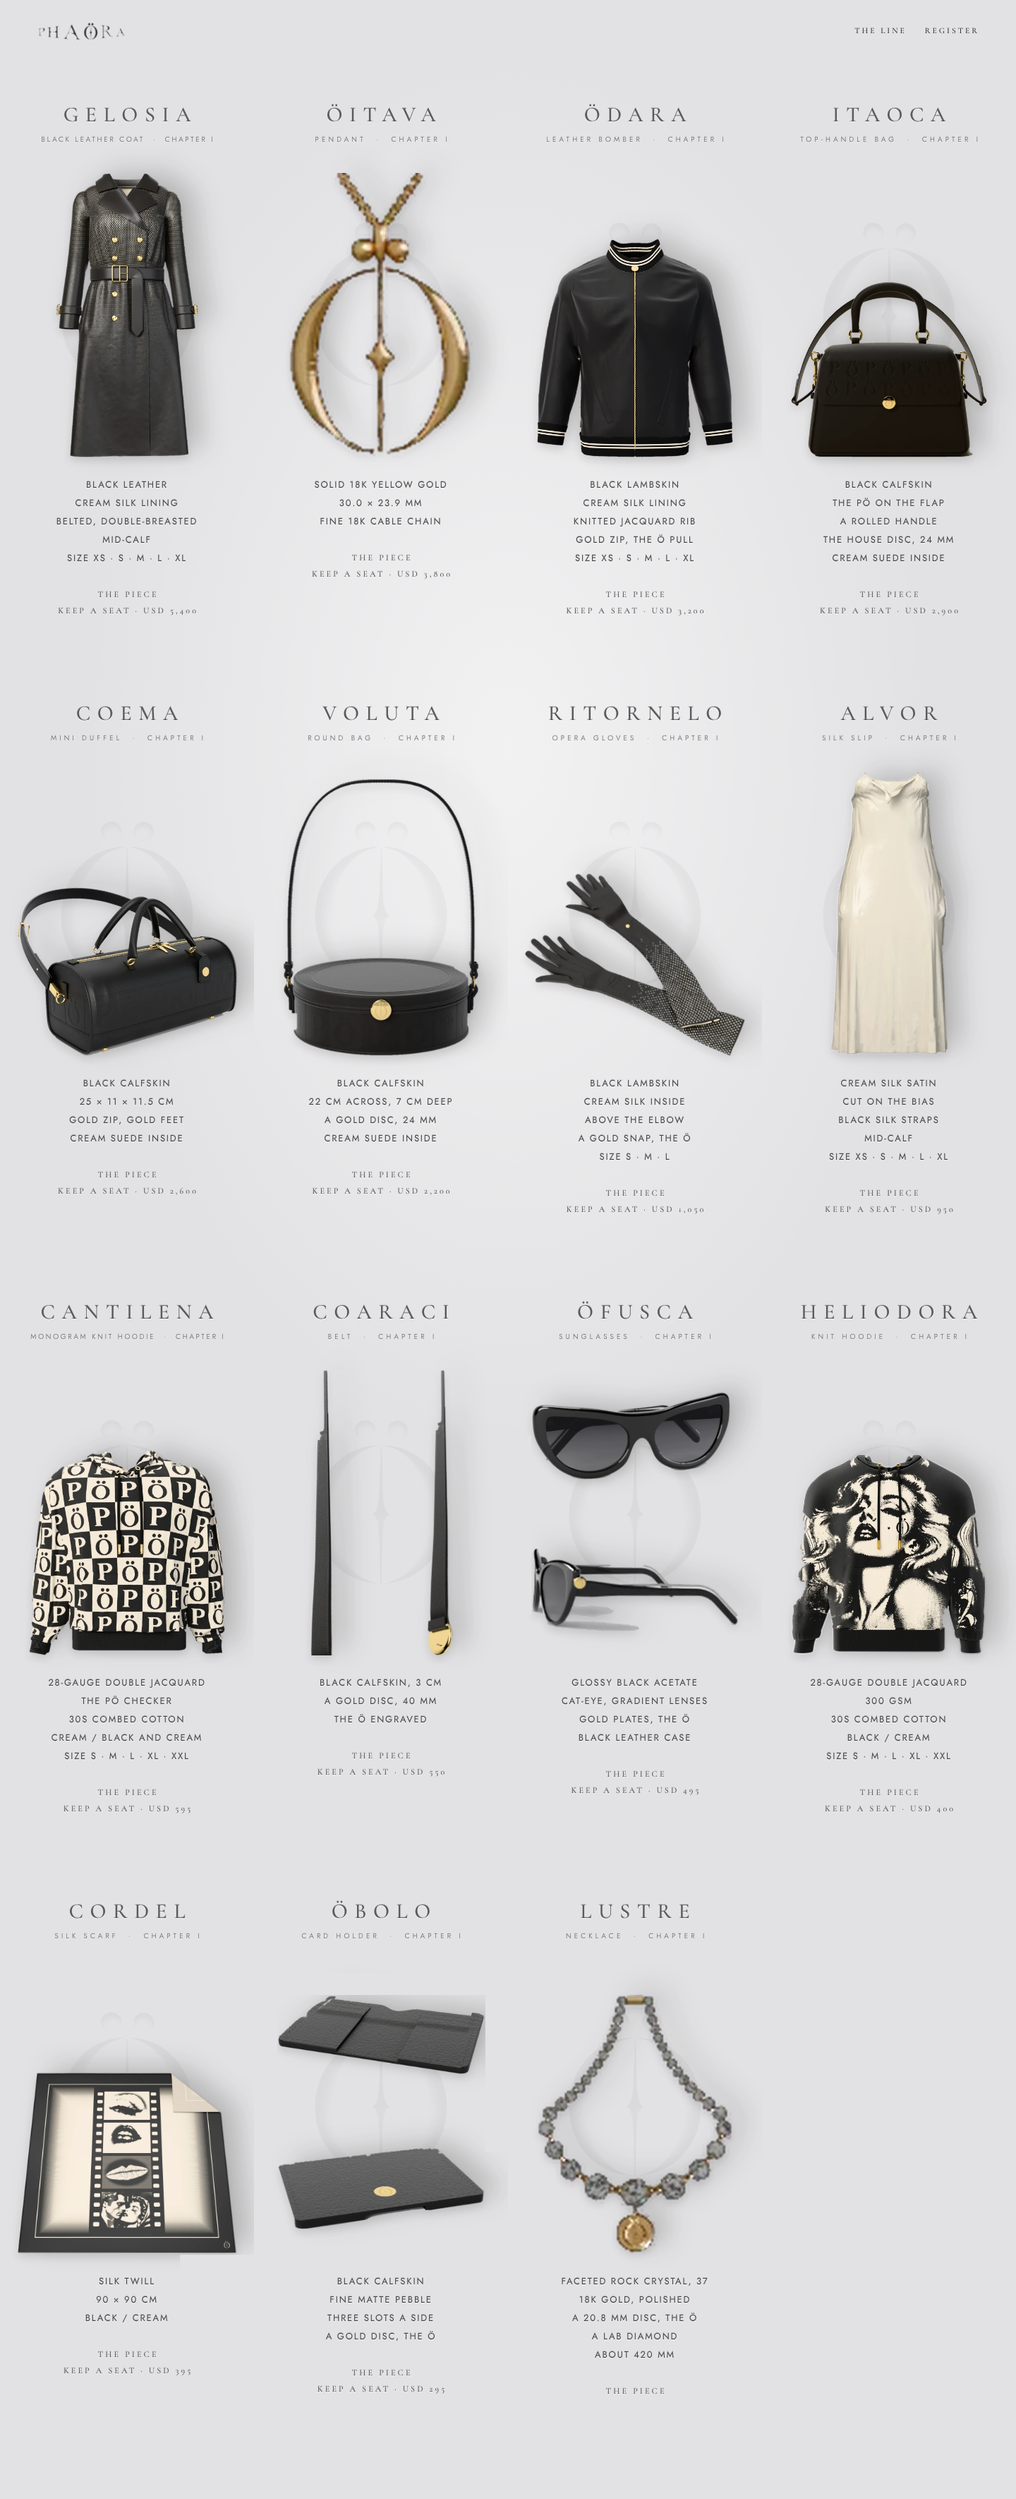
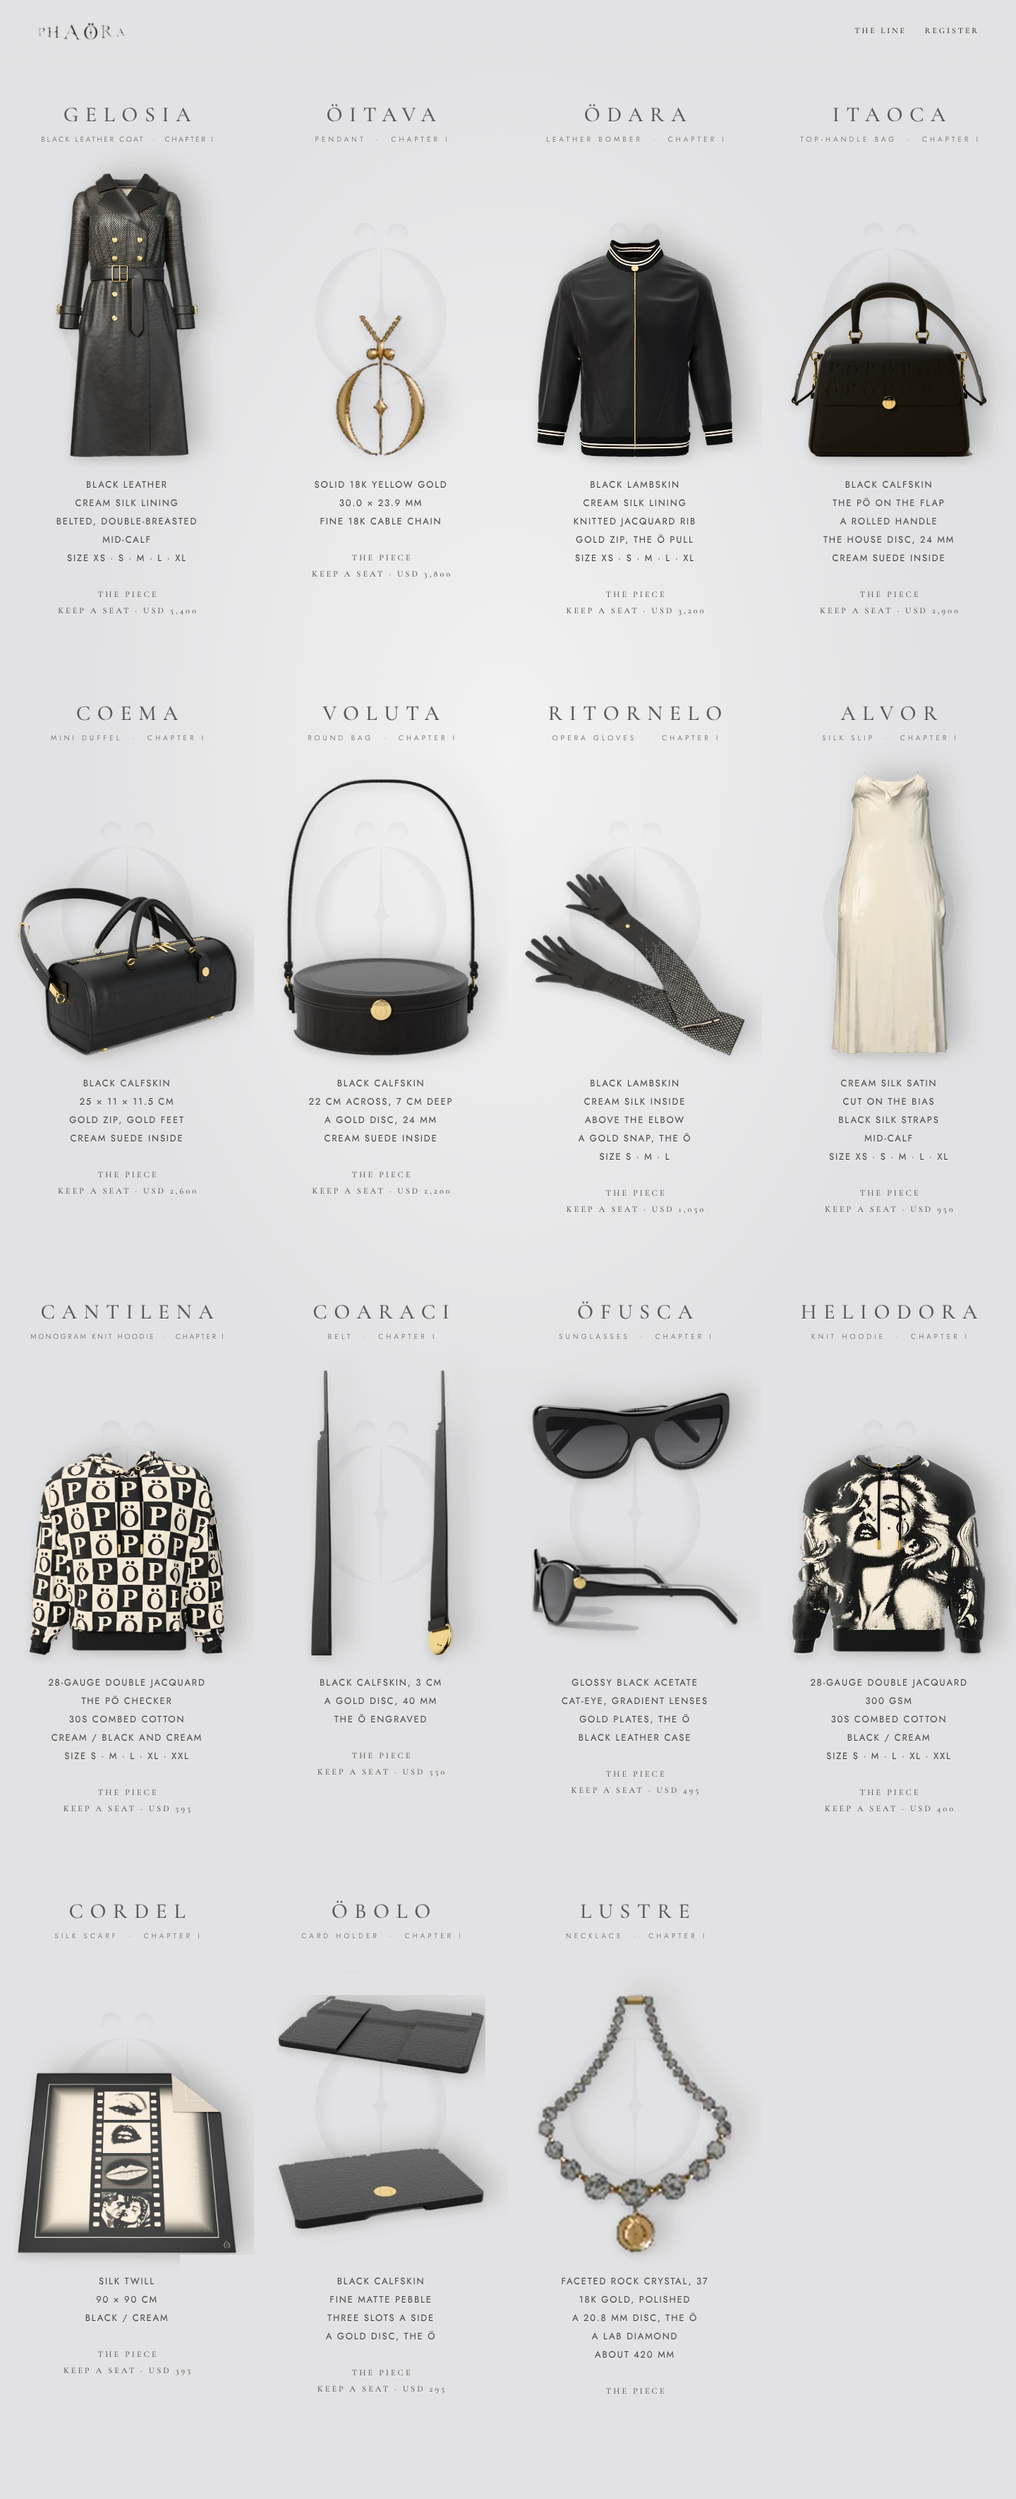
Catalogue: Öitava smaller, more delicate (half its box)
Claude-Session: https://claude.ai/code/session_0133zY8WYR2Yz4VqDzteq4sV

Changed region(s): [[0.2812, 0.0621, 0.4688, 0.1864]]

diff --git a/chapter-1/index.html b/chapter-1/index.html
@@ -13,7 +13,7 @@
 <div class="top"></div>
 <a id="logo" href="#top" aria-label="PHAÖRA"></a>
 <nav id="sitenav"><a href="#top">The line</a><a href="/">Register</a></nav>
-<main class="cat"><article class="col" id="gelosia"><h2 class="t cut">GELOSIA</h2><p class="s cut long">BLACK LEATHER COAT &nbsp;·&nbsp; CHAPTER I</p><a class="ph" href="gelosia.html"><img src="assets/catalogue/veil_coat.webp" alt="Gelosia, black leather coat" loading="eager" decoding="async"></a><ul class="specs cut"><li>BLACK LEATHER</li><li>CREAM SILK LINING</li><li>BELTED, DOUBLE-BREASTED</li><li>MID-CALF</li><li>SIZE  XS · S · M · L · XL</li></ul><p class="links cut"><a href="gelosia.html">The piece</a><a href="/">Keep a seat · USD 5,400</a></p></article><article class="col" id="oitava"><h2 class="t cut">ÖITAVA</h2><p class="s cut">PENDANT &nbsp;·&nbsp; CHAPTER I</p><a class="ph" href="oitava.html"><img src="assets/catalogue/oitava.webp" alt="Öitava, pendant" loading="eager" decoding="async"></a><ul class="specs cut"><li>SOLID 18K YELLOW GOLD</li><li>30.0 × 23.9 MM</li><li>FINE 18K CABLE CHAIN</li></ul><p class="links cut"><a href="oitava.html">The piece</a><a href="/">Keep a seat · USD 3,800</a></p></article><article class="col" id="odara"><h2 class="t cut">ÖDARA</h2><p class="s cut">LEATHER BOMBER &nbsp;·&nbsp; CHAPTER I</p><a class="ph" href="odara.html"><img src="assets/catalogue/muse_bomber.webp" alt="Ödara, leather bomber" loading="eager" decoding="async"></a><ul class="specs cut"><li>BLACK LAMBSKIN</li><li>CREAM SILK LINING</li><li>KNITTED JACQUARD RIB</li><li>GOLD ZIP, THE Ö PULL</li><li>SIZE  XS · S · M · L · XL</li></ul><p class="links cut"><a href="odara.html">The piece</a><a href="/">Keep a seat · USD 3,200</a></p></article><article class="col" id="itaoca"><h2 class="t cut">ITAOCA</h2><p class="s cut">TOP-HANDLE BAG &nbsp;·&nbsp; CHAPTER I</p><a class="ph" href="itaoca.html"><img src="assets/catalogue/po_tophandle.webp" alt="Itaoca, top-handle bag" loading="eager" decoding="async"></a><ul class="specs cut"><li>BLACK CALFSKIN</li><li>THE PÖ ON THE FLAP</li><li>A ROLLED HANDLE</li><li>THE HOUSE DISC, 24 MM</li><li>CREAM SUEDE INSIDE</li></ul><p class="links cut"><a href="itaoca.html">The piece</a><a href="/">Keep a seat · USD 2,900</a></p></article><article class="col" id="coema"><h2 class="t cut">COEMA</h2><p class="s cut">MINI DUFFEL &nbsp;·&nbsp; CHAPTER I</p><a class="ph wide" href="coema.html"><img src="assets/catalogue/matinee.webp" alt="Coema, mini duffel" loading="eager" decoding="async"></a><ul class="specs cut"><li>BLACK CALFSKIN</li><li>25 × 11 × 11.5 CM</li><li>GOLD ZIP, GOLD FEET</li><li>CREAM SUEDE INSIDE</li></ul><p class="links cut"><a href="coema.html">The piece</a><a href="/">Keep a seat · USD 2,600</a></p></article><article class="col" id="voluta"><h2 class="t cut">VOLUTA</h2><p class="s cut">ROUND BAG &nbsp;·&nbsp; CHAPTER I</p><a class="ph" href="voluta.html"><img src="assets/catalogue/the_reel.webp" alt="Voluta, round bag" loading="eager" decoding="async"></a><ul class="specs cut"><li>BLACK CALFSKIN</li><li>22 CM ACROSS, 7 CM DEEP</li><li>A GOLD DISC, 24 MM</li><li>CREAM SUEDE INSIDE</li></ul><p class="links cut"><a href="voluta.html">The piece</a><a href="/">Keep a seat · USD 2,200</a></p></article><article class="col" id="ritornelo"><h2 class="t cut">RITORNELO</h2><p class="s cut">OPERA GLOVES &nbsp;·&nbsp; CHAPTER I</p><a class="ph wide" href="ritornelo.html"><img src="assets/catalogue/opera_gloves.webp" alt="Ritornelo, opera gloves" loading="eager" decoding="async"></a><ul class="specs cut"><li>BLACK LAMBSKIN</li><li>CREAM SILK INSIDE</li><li>ABOVE THE ELBOW</li><li>A GOLD SNAP, THE Ö</li><li>SIZE  S · M · L</li></ul><p class="links cut"><a href="ritornelo.html">The piece</a><a href="/">Keep a seat · USD 1,050</a></p></article><article class="col" id="alvor"><h2 class="t cut">ALVOR</h2><p class="s cut">SILK SLIP &nbsp;·&nbsp; CHAPTER I</p><a class="ph" href="alvor.html"><img src="assets/catalogue/silk_slip.webp" alt="Alvor, silk slip" loading="eager" decoding="async"></a><ul class="specs cut"><li>CREAM SILK SATIN</li><li>CUT ON THE BIAS</li><li>BLACK SILK STRAPS</li><li>MID-CALF</li><li>SIZE  XS · S · M · L · XL</li></ul><p class="links cut"><a href="alvor.html">The piece</a><a href="/">Keep a seat · USD 950</a></p></article><article class="col" id="cantilena"><h2 class="t cut">CANTILENA</h2><p class="s cut long">MONOGRAM KNIT HOODIE &nbsp;·&nbsp; CHAPTER I</p><a class="ph" href="cantilena.html"><img src="assets/catalogue/cantilena.webp" alt="Cantilena, monogram knit hoodie" loading="eager" decoding="async"></a><ul class="specs cut"><li>28-GAUGE DOUBLE JACQUARD</li><li>THE PÖ CHECKER</li><li>30S COMBED COTTON</li><li>CREAM / BLACK AND CREAM</li><li>SIZE  S · M · L · XL · XXL</li></ul><p class="links cut"><a href="cantilena.html">The piece</a><a href="/">Keep a seat · USD 595</a></p></article><article class="col" id="coaraci"><h2 class="t cut">COARACI</h2><p class="s cut">BELT &nbsp;·&nbsp; CHAPTER I</p><a class="ph duo" href="coaraci.html"><img class="a" src="assets/catalogue/disc_belt_long-leather.webp" alt="Coaraci, belt: the leather" loading="eager" decoding="async"><img class="b" src="assets/catalogue/disc_belt_long-buckle.webp" alt="Coaraci: its buckle" loading="eager" decoding="async"></a><ul class="specs cut"><li>BLACK CALFSKIN, 3 CM</li><li>A GOLD DISC, 40 MM</li><li>THE Ö ENGRAVED</li></ul><p class="links cut"><a href="coaraci.html">The piece</a><a href="/">Keep a seat · USD 550</a></p></article><article class="col" id="ofusca"><h2 class="t cut">ÖFUSCA</h2><p class="s cut">SUNGLASSES &nbsp;·&nbsp; CHAPTER I</p><a class="ph two" href="ofusca.html"><img class="a" src="assets/catalogue/sunglasses.webp" alt="Öfusca, sunglasses" loading="eager" decoding="async"><img class="b" src="assets/catalogue/sunglasses_side.webp" alt="" loading="eager" decoding="async"></a><ul class="specs cut"><li>GLOSSY BLACK ACETATE</li><li>CAT-EYE, GRADIENT LENSES</li><li>GOLD PLATES, THE Ö</li><li>BLACK LEATHER CASE</li></ul><p class="links cut"><a href="ofusca.html">The piece</a><a href="/">Keep a seat · USD 495</a></p></article><article class="col" id="heliodora"><h2 class="t cut">HELIODORA</h2><p class="s cut">KNIT HOODIE &nbsp;·&nbsp; CHAPTER I</p><a class="ph" href="heliodora.html"><img src="assets/catalogue/muse_allover.webp" alt="Heliodora, knit hoodie" loading="eager" decoding="async"></a><ul class="specs cut"><li>28-GAUGE DOUBLE JACQUARD</li><li>300 GSM</li><li>30S COMBED COTTON</li><li>BLACK / CREAM</li><li>SIZE  S · M · L · XL · XXL</li></ul><p class="links cut"><a href="heliodora.html">The piece</a><a href="/">Keep a seat · USD 400</a></p></article><article class="col" id="cordel"><h2 class="t cut">CORDEL</h2><p class="s cut">SILK SCARF &nbsp;·&nbsp; CHAPTER I</p><a class="ph wide" href="cordel.html"><img src="assets/catalogue/silk_scarf.webp" alt="Cordel, silk scarf" loading="eager" decoding="async"></a><ul class="specs cut"><li>SILK TWILL</li><li>90 × 90 CM</li><li>BLACK / CREAM</li></ul><p class="links cut"><a href="cordel.html">The piece</a><a href="/">Keep a seat · USD 395</a></p></article><article class="col" id="obolo"><h2 class="t cut">ÖBOLO</h2><p class="s cut">CARD HOLDER &nbsp;·&nbsp; CHAPTER I</p><a class="ph two" href="obolo.html"><img class="a" src="assets/catalogue/card_holder.webp" alt="Öbolo, card holder" loading="eager" decoding="async"><img class="b" src="assets/catalogue/card_holder_back.webp" alt="" loading="eager" decoding="async"></a><ul class="specs cut"><li>BLACK CALFSKIN</li><li>FINE MATTE PEBBLE</li><li>THREE SLOTS A SIDE</li><li>A GOLD DISC, THE Ö</li></ul><p class="links cut"><a href="obolo.html">The piece</a><a href="/">Keep a seat · USD 295</a></p></article><article class="col" id="lustre"><h2 class="t cut">LUSTRE</h2><p class="s cut">NECKLACE &nbsp;·&nbsp; CHAPTER I</p><a class="ph" href="lustre.html"><img src="assets/catalogue/lustre.webp" alt="Lustre, necklace" loading="eager" decoding="async"></a><ul class="specs cut"><li>FACETED ROCK CRYSTAL, 37</li><li>18K GOLD, POLISHED</li><li>A 20.8 MM DISC, THE Ö</li><li>A LAB DIAMOND</li><li>ABOUT 420 MM</li></ul><p class="links cut"><a href="lustre.html">The piece</a></p></article></main>
+<main class="cat"><article class="col" id="gelosia"><h2 class="t cut">GELOSIA</h2><p class="s cut long">BLACK LEATHER COAT &nbsp;·&nbsp; CHAPTER I</p><a class="ph" href="gelosia.html"><img src="assets/catalogue/veil_coat.webp" alt="Gelosia, black leather coat" loading="eager" decoding="async"></a><ul class="specs cut"><li>BLACK LEATHER</li><li>CREAM SILK LINING</li><li>BELTED, DOUBLE-BREASTED</li><li>MID-CALF</li><li>SIZE  XS · S · M · L · XL</li></ul><p class="links cut"><a href="gelosia.html">The piece</a><a href="/">Keep a seat · USD 5,400</a></p></article><article class="col" id="oitava"><h2 class="t cut">ÖITAVA</h2><p class="s cut">PENDANT &nbsp;·&nbsp; CHAPTER I</p><a class="ph" href="oitava.html"><img style="height:50%" src="assets/catalogue/oitava.webp" alt="Öitava, pendant" loading="eager" decoding="async"></a><ul class="specs cut"><li>SOLID 18K YELLOW GOLD</li><li>30.0 × 23.9 MM</li><li>FINE 18K CABLE CHAIN</li></ul><p class="links cut"><a href="oitava.html">The piece</a><a href="/">Keep a seat · USD 3,800</a></p></article><article class="col" id="odara"><h2 class="t cut">ÖDARA</h2><p class="s cut">LEATHER BOMBER &nbsp;·&nbsp; CHAPTER I</p><a class="ph" href="odara.html"><img src="assets/catalogue/muse_bomber.webp" alt="Ödara, leather bomber" loading="eager" decoding="async"></a><ul class="specs cut"><li>BLACK LAMBSKIN</li><li>CREAM SILK LINING</li><li>KNITTED JACQUARD RIB</li><li>GOLD ZIP, THE Ö PULL</li><li>SIZE  XS · S · M · L · XL</li></ul><p class="links cut"><a href="odara.html">The piece</a><a href="/">Keep a seat · USD 3,200</a></p></article><article class="col" id="itaoca"><h2 class="t cut">ITAOCA</h2><p class="s cut">TOP-HANDLE BAG &nbsp;·&nbsp; CHAPTER I</p><a class="ph" href="itaoca.html"><img src="assets/catalogue/po_tophandle.webp" alt="Itaoca, top-handle bag" loading="eager" decoding="async"></a><ul class="specs cut"><li>BLACK CALFSKIN</li><li>THE PÖ ON THE FLAP</li><li>A ROLLED HANDLE</li><li>THE HOUSE DISC, 24 MM</li><li>CREAM SUEDE INSIDE</li></ul><p class="links cut"><a href="itaoca.html">The piece</a><a href="/">Keep a seat · USD 2,900</a></p></article><article class="col" id="coema"><h2 class="t cut">COEMA</h2><p class="s cut">MINI DUFFEL &nbsp;·&nbsp; CHAPTER I</p><a class="ph wide" href="coema.html"><img src="assets/catalogue/matinee.webp" alt="Coema, mini duffel" loading="eager" decoding="async"></a><ul class="specs cut"><li>BLACK CALFSKIN</li><li>25 × 11 × 11.5 CM</li><li>GOLD ZIP, GOLD FEET</li><li>CREAM SUEDE INSIDE</li></ul><p class="links cut"><a href="coema.html">The piece</a><a href="/">Keep a seat · USD 2,600</a></p></article><article class="col" id="voluta"><h2 class="t cut">VOLUTA</h2><p class="s cut">ROUND BAG &nbsp;·&nbsp; CHAPTER I</p><a class="ph" href="voluta.html"><img src="assets/catalogue/the_reel.webp" alt="Voluta, round bag" loading="eager" decoding="async"></a><ul class="specs cut"><li>BLACK CALFSKIN</li><li>22 CM ACROSS, 7 CM DEEP</li><li>A GOLD DISC, 24 MM</li><li>CREAM SUEDE INSIDE</li></ul><p class="links cut"><a href="voluta.html">The piece</a><a href="/">Keep a seat · USD 2,200</a></p></article><article class="col" id="ritornelo"><h2 class="t cut">RITORNELO</h2><p class="s cut">OPERA GLOVES &nbsp;·&nbsp; CHAPTER I</p><a class="ph wide" href="ritornelo.html"><img src="assets/catalogue/opera_gloves.webp" alt="Ritornelo, opera gloves" loading="eager" decoding="async"></a><ul class="specs cut"><li>BLACK LAMBSKIN</li><li>CREAM SILK INSIDE</li><li>ABOVE THE ELBOW</li><li>A GOLD SNAP, THE Ö</li><li>SIZE  S · M · L</li></ul><p class="links cut"><a href="ritornelo.html">The piece</a><a href="/">Keep a seat · USD 1,050</a></p></article><article class="col" id="alvor"><h2 class="t cut">ALVOR</h2><p class="s cut">SILK SLIP &nbsp;·&nbsp; CHAPTER I</p><a class="ph" href="alvor.html"><img src="assets/catalogue/silk_slip.webp" alt="Alvor, silk slip" loading="eager" decoding="async"></a><ul class="specs cut"><li>CREAM SILK SATIN</li><li>CUT ON THE BIAS</li><li>BLACK SILK STRAPS</li><li>MID-CALF</li><li>SIZE  XS · S · M · L · XL</li></ul><p class="links cut"><a href="alvor.html">The piece</a><a href="/">Keep a seat · USD 950</a></p></article><article class="col" id="cantilena"><h2 class="t cut">CANTILENA</h2><p class="s cut long">MONOGRAM KNIT HOODIE &nbsp;·&nbsp; CHAPTER I</p><a class="ph" href="cantilena.html"><img src="assets/catalogue/cantilena.webp" alt="Cantilena, monogram knit hoodie" loading="eager" decoding="async"></a><ul class="specs cut"><li>28-GAUGE DOUBLE JACQUARD</li><li>THE PÖ CHECKER</li><li>30S COMBED COTTON</li><li>CREAM / BLACK AND CREAM</li><li>SIZE  S · M · L · XL · XXL</li></ul><p class="links cut"><a href="cantilena.html">The piece</a><a href="/">Keep a seat · USD 595</a></p></article><article class="col" id="coaraci"><h2 class="t cut">COARACI</h2><p class="s cut">BELT &nbsp;·&nbsp; CHAPTER I</p><a class="ph duo" href="coaraci.html"><img class="a" src="assets/catalogue/disc_belt_long-leather.webp" alt="Coaraci, belt: the leather" loading="eager" decoding="async"><img class="b" src="assets/catalogue/disc_belt_long-buckle.webp" alt="Coaraci: its buckle" loading="eager" decoding="async"></a><ul class="specs cut"><li>BLACK CALFSKIN, 3 CM</li><li>A GOLD DISC, 40 MM</li><li>THE Ö ENGRAVED</li></ul><p class="links cut"><a href="coaraci.html">The piece</a><a href="/">Keep a seat · USD 550</a></p></article><article class="col" id="ofusca"><h2 class="t cut">ÖFUSCA</h2><p class="s cut">SUNGLASSES &nbsp;·&nbsp; CHAPTER I</p><a class="ph two" href="ofusca.html"><img class="a" src="assets/catalogue/sunglasses.webp" alt="Öfusca, sunglasses" loading="eager" decoding="async"><img class="b" src="assets/catalogue/sunglasses_side.webp" alt="" loading="eager" decoding="async"></a><ul class="specs cut"><li>GLOSSY BLACK ACETATE</li><li>CAT-EYE, GRADIENT LENSES</li><li>GOLD PLATES, THE Ö</li><li>BLACK LEATHER CASE</li></ul><p class="links cut"><a href="ofusca.html">The piece</a><a href="/">Keep a seat · USD 495</a></p></article><article class="col" id="heliodora"><h2 class="t cut">HELIODORA</h2><p class="s cut">KNIT HOODIE &nbsp;·&nbsp; CHAPTER I</p><a class="ph" href="heliodora.html"><img src="assets/catalogue/muse_allover.webp" alt="Heliodora, knit hoodie" loading="eager" decoding="async"></a><ul class="specs cut"><li>28-GAUGE DOUBLE JACQUARD</li><li>300 GSM</li><li>30S COMBED COTTON</li><li>BLACK / CREAM</li><li>SIZE  S · M · L · XL · XXL</li></ul><p class="links cut"><a href="heliodora.html">The piece</a><a href="/">Keep a seat · USD 400</a></p></article><article class="col" id="cordel"><h2 class="t cut">CORDEL</h2><p class="s cut">SILK SCARF &nbsp;·&nbsp; CHAPTER I</p><a class="ph wide" href="cordel.html"><img src="assets/catalogue/silk_scarf.webp" alt="Cordel, silk scarf" loading="eager" decoding="async"></a><ul class="specs cut"><li>SILK TWILL</li><li>90 × 90 CM</li><li>BLACK / CREAM</li></ul><p class="links cut"><a href="cordel.html">The piece</a><a href="/">Keep a seat · USD 395</a></p></article><article class="col" id="obolo"><h2 class="t cut">ÖBOLO</h2><p class="s cut">CARD HOLDER &nbsp;·&nbsp; CHAPTER I</p><a class="ph two" href="obolo.html"><img class="a" src="assets/catalogue/card_holder.webp" alt="Öbolo, card holder" loading="eager" decoding="async"><img class="b" src="assets/catalogue/card_holder_back.webp" alt="" loading="eager" decoding="async"></a><ul class="specs cut"><li>BLACK CALFSKIN</li><li>FINE MATTE PEBBLE</li><li>THREE SLOTS A SIDE</li><li>A GOLD DISC, THE Ö</li></ul><p class="links cut"><a href="obolo.html">The piece</a><a href="/">Keep a seat · USD 295</a></p></article><article class="col" id="lustre"><h2 class="t cut">LUSTRE</h2><p class="s cut">NECKLACE &nbsp;·&nbsp; CHAPTER I</p><a class="ph" href="lustre.html"><img src="assets/catalogue/lustre.webp" alt="Lustre, necklace" loading="eager" decoding="async"></a><ul class="specs cut"><li>FACETED ROCK CRYSTAL, 37</li><li>18K GOLD, POLISHED</li><li>A 20.8 MM DISC, THE Ö</li><li>A LAB DIAMOND</li><li>ABOUT 420 MM</li></ul><p class="links cut"><a href="lustre.html">The piece</a></p></article></main>
 <script>
 // David's lettering with the solo Ö, inlined in the room's dark ink, as room.js does (never typed)
 fetch('assets/lettering-solo-offwhite.svg').then(r => r.text()).then(t => { document.getElementById('logo').innerHTML =

diff --git a/chapter-1/build.py b/chapter-1/build.py
@@ -639,7 +639,7 @@ def catalogue_home():
                     f'<img class="b" src="{duo[q["id"]][1]}" alt="{E(q["name"])}: its buckle" loading="eager" decoding="async"></a>' if q['id'] in duo else
                     f'<a class="ph two" href="{q["page"]}.html"><img class="a" src="{imgs[q["id"]][0]}" alt="{E(q["name"])}, {E(q["plain"].lower())}" loading="eager" decoding="async">'
                     f'<img class="b" src="{imgs[q["id"]][1]}" alt="" loading="eager" decoding="async"></a>' if imgs[q['id']][1] else
-                    f'<a class="ph{" wide" if Image.open(HERE / imgs[q["id"]][0]).width > 1.15 * Image.open(HERE / imgs[q["id"]][0]).height else ""}" href="{q["page"]}.html"><img src="{imgs[q["id"]][0]}" alt="{E(q["name"])}, {E(q["plain"].lower())}" loading="eager" decoding="async"></a>') +
+                    f'<a class="ph{" wide" if Image.open(HERE / imgs[q["id"]][0]).width > 1.15 * Image.open(HERE / imgs[q["id"]][0]).height else ""}" href="{q["page"]}.html"><img{f' style="height:{C.CAT_SCALE[q["id"]] * 100:.0f}%"' if q["id"] in C.CAT_SCALE else ""} src="{imgs[q["id"]][0]}" alt="{E(q["name"])}, {E(q["plain"].lower())}" loading="eager" decoding="async"></a>') +
                  f'<ul class="specs cut">' + ''.join(f'<li>{E(x)}</li>' for x in specs) + f'</ul><p class="links cut">{links}</p></article>')
     doc = f'''<!doctype html>
 <html lang="en" id="top"><head><meta charset="utf-8">

diff --git a/chapter-1/content.py b/chapter-1/content.py
@@ -653,3 +653,4 @@ DETAILS480 = {
 
 # the catalogue: the small pieces carry two angles in their column, sharing one floor (David, 15 Nov). (second view)
 CAT_SECOND = {'disc_belt': 'straight', 'sunglasses': 'side', 'card_holder': 'back'}   # Öfusca: front and side, the gold Ö on the temple (David, 15 Nov)   # Ritornelo reads better as its pair alone
+CAT_SCALE = {'oitava': 0.5}   # the catalogue image's share of its box (David, 15 Nov, Öitava: "more delicate, smaller")
